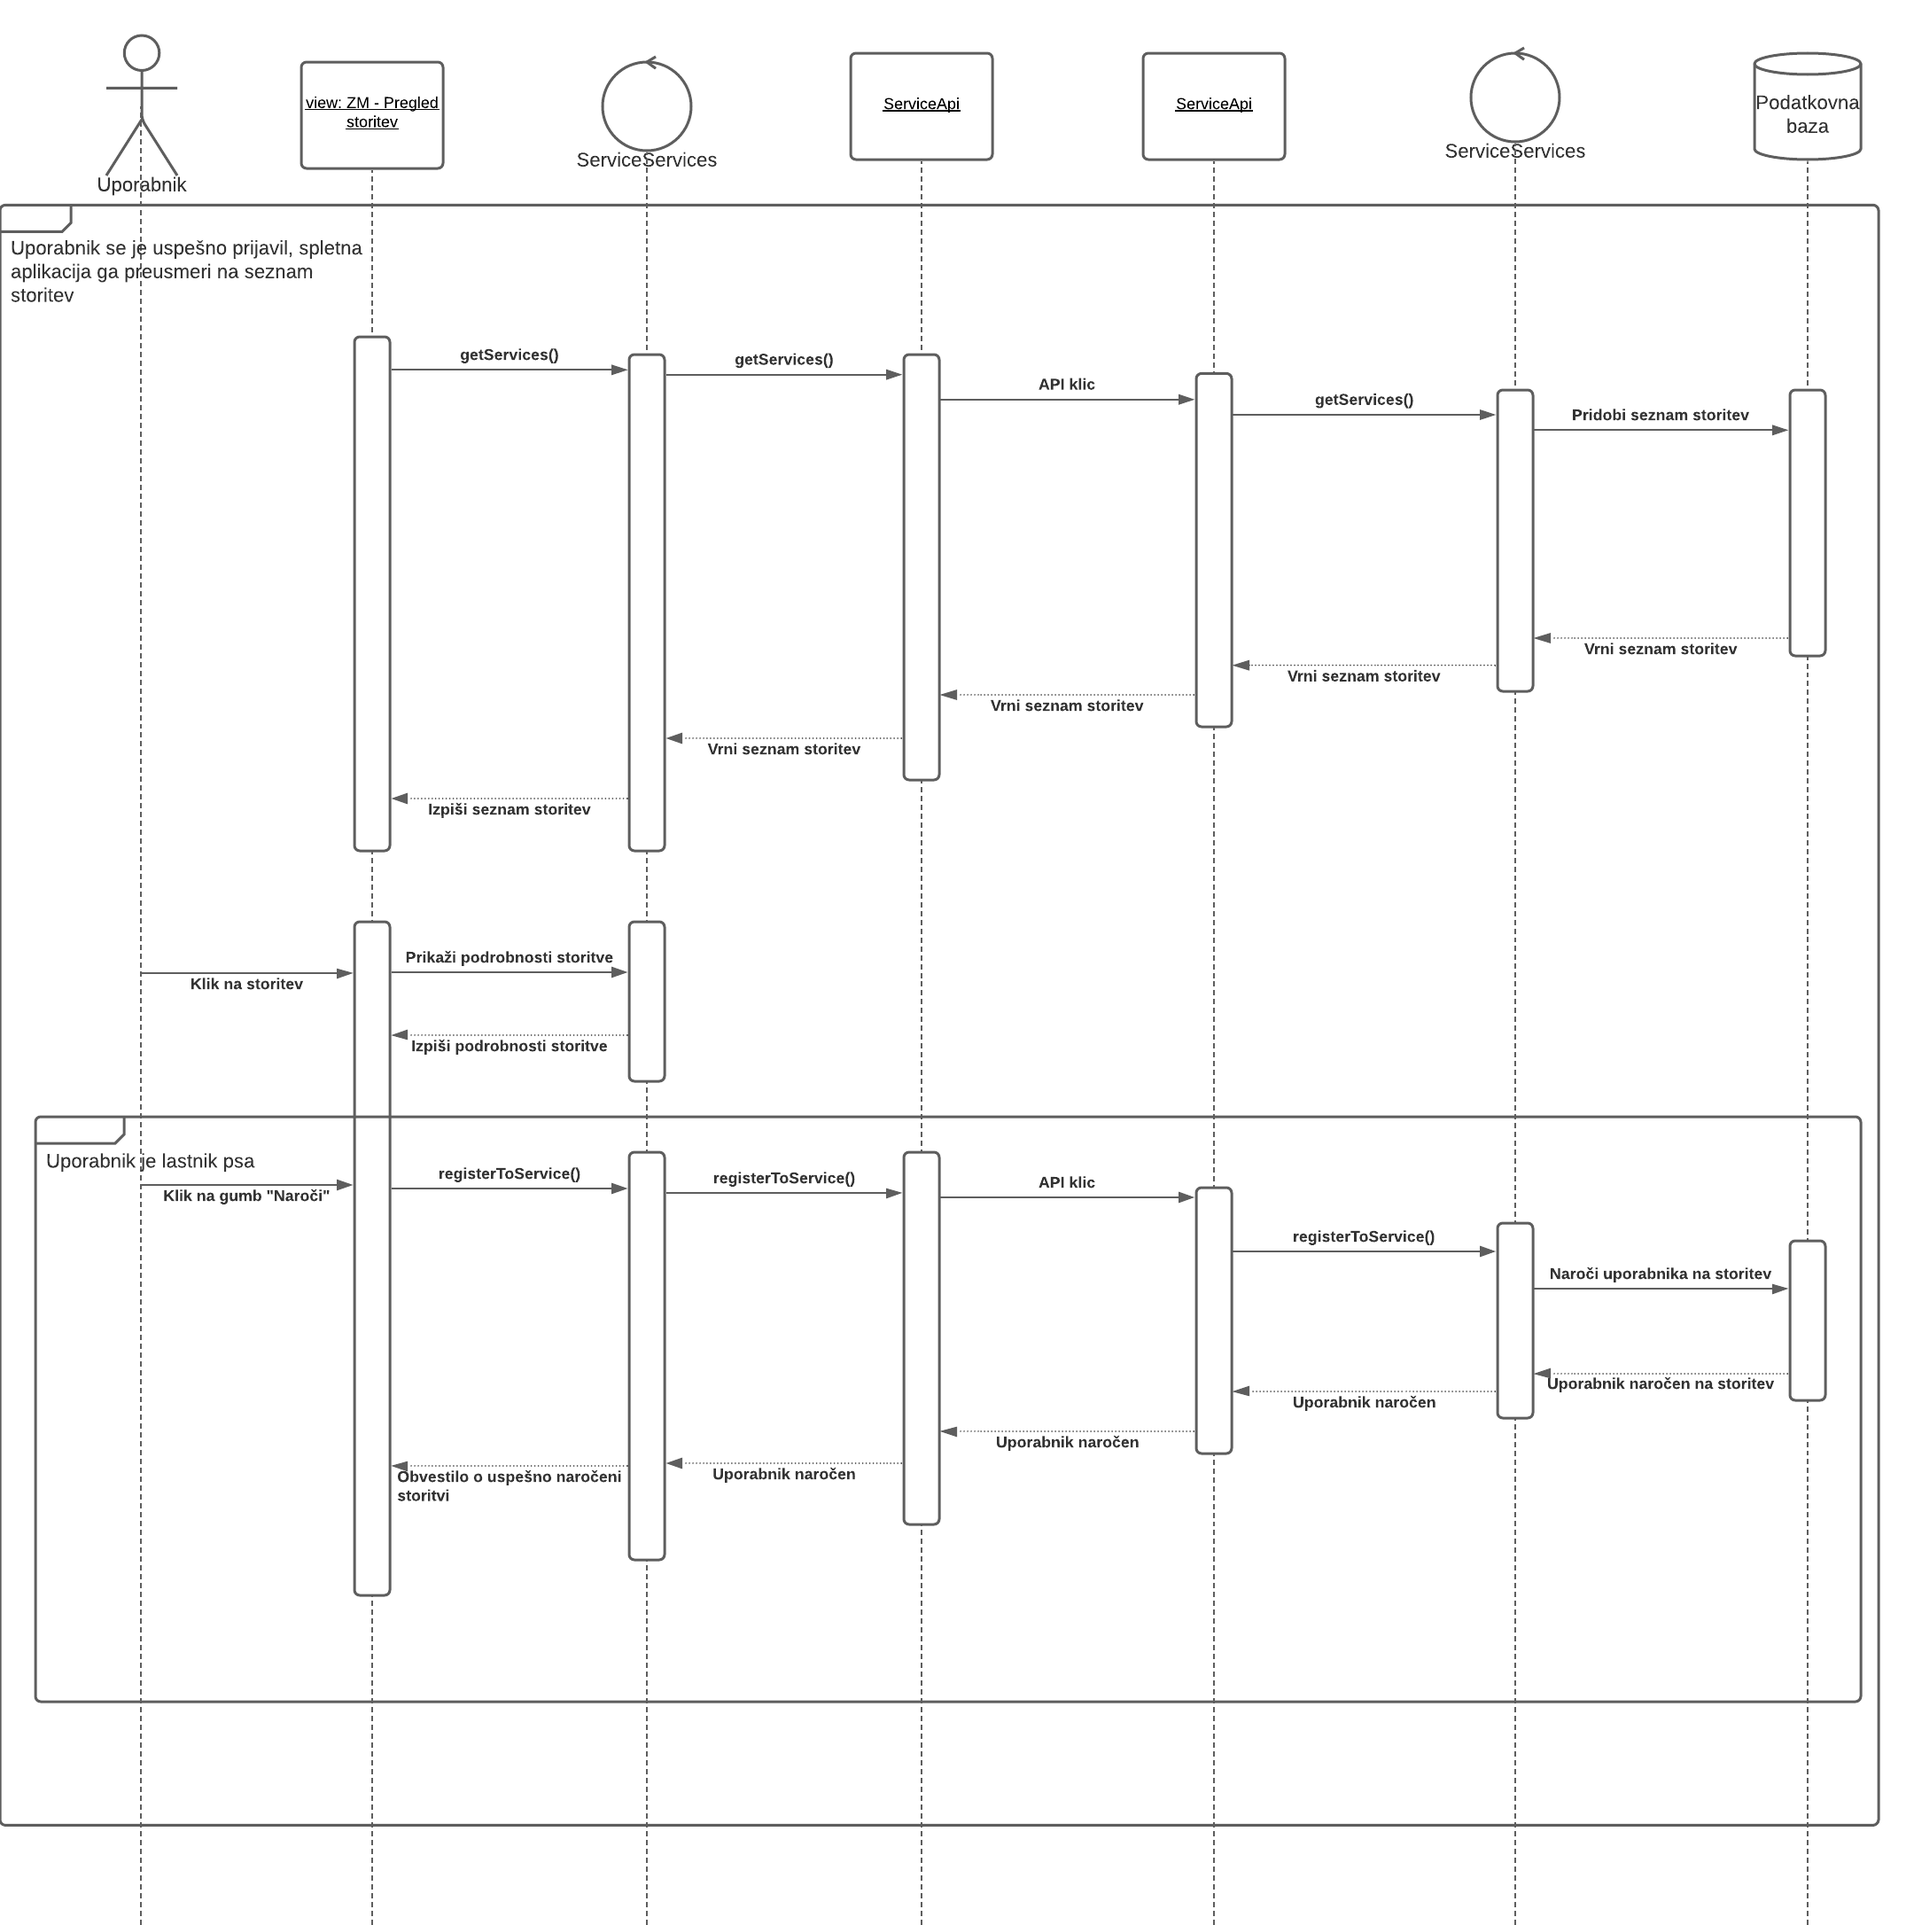
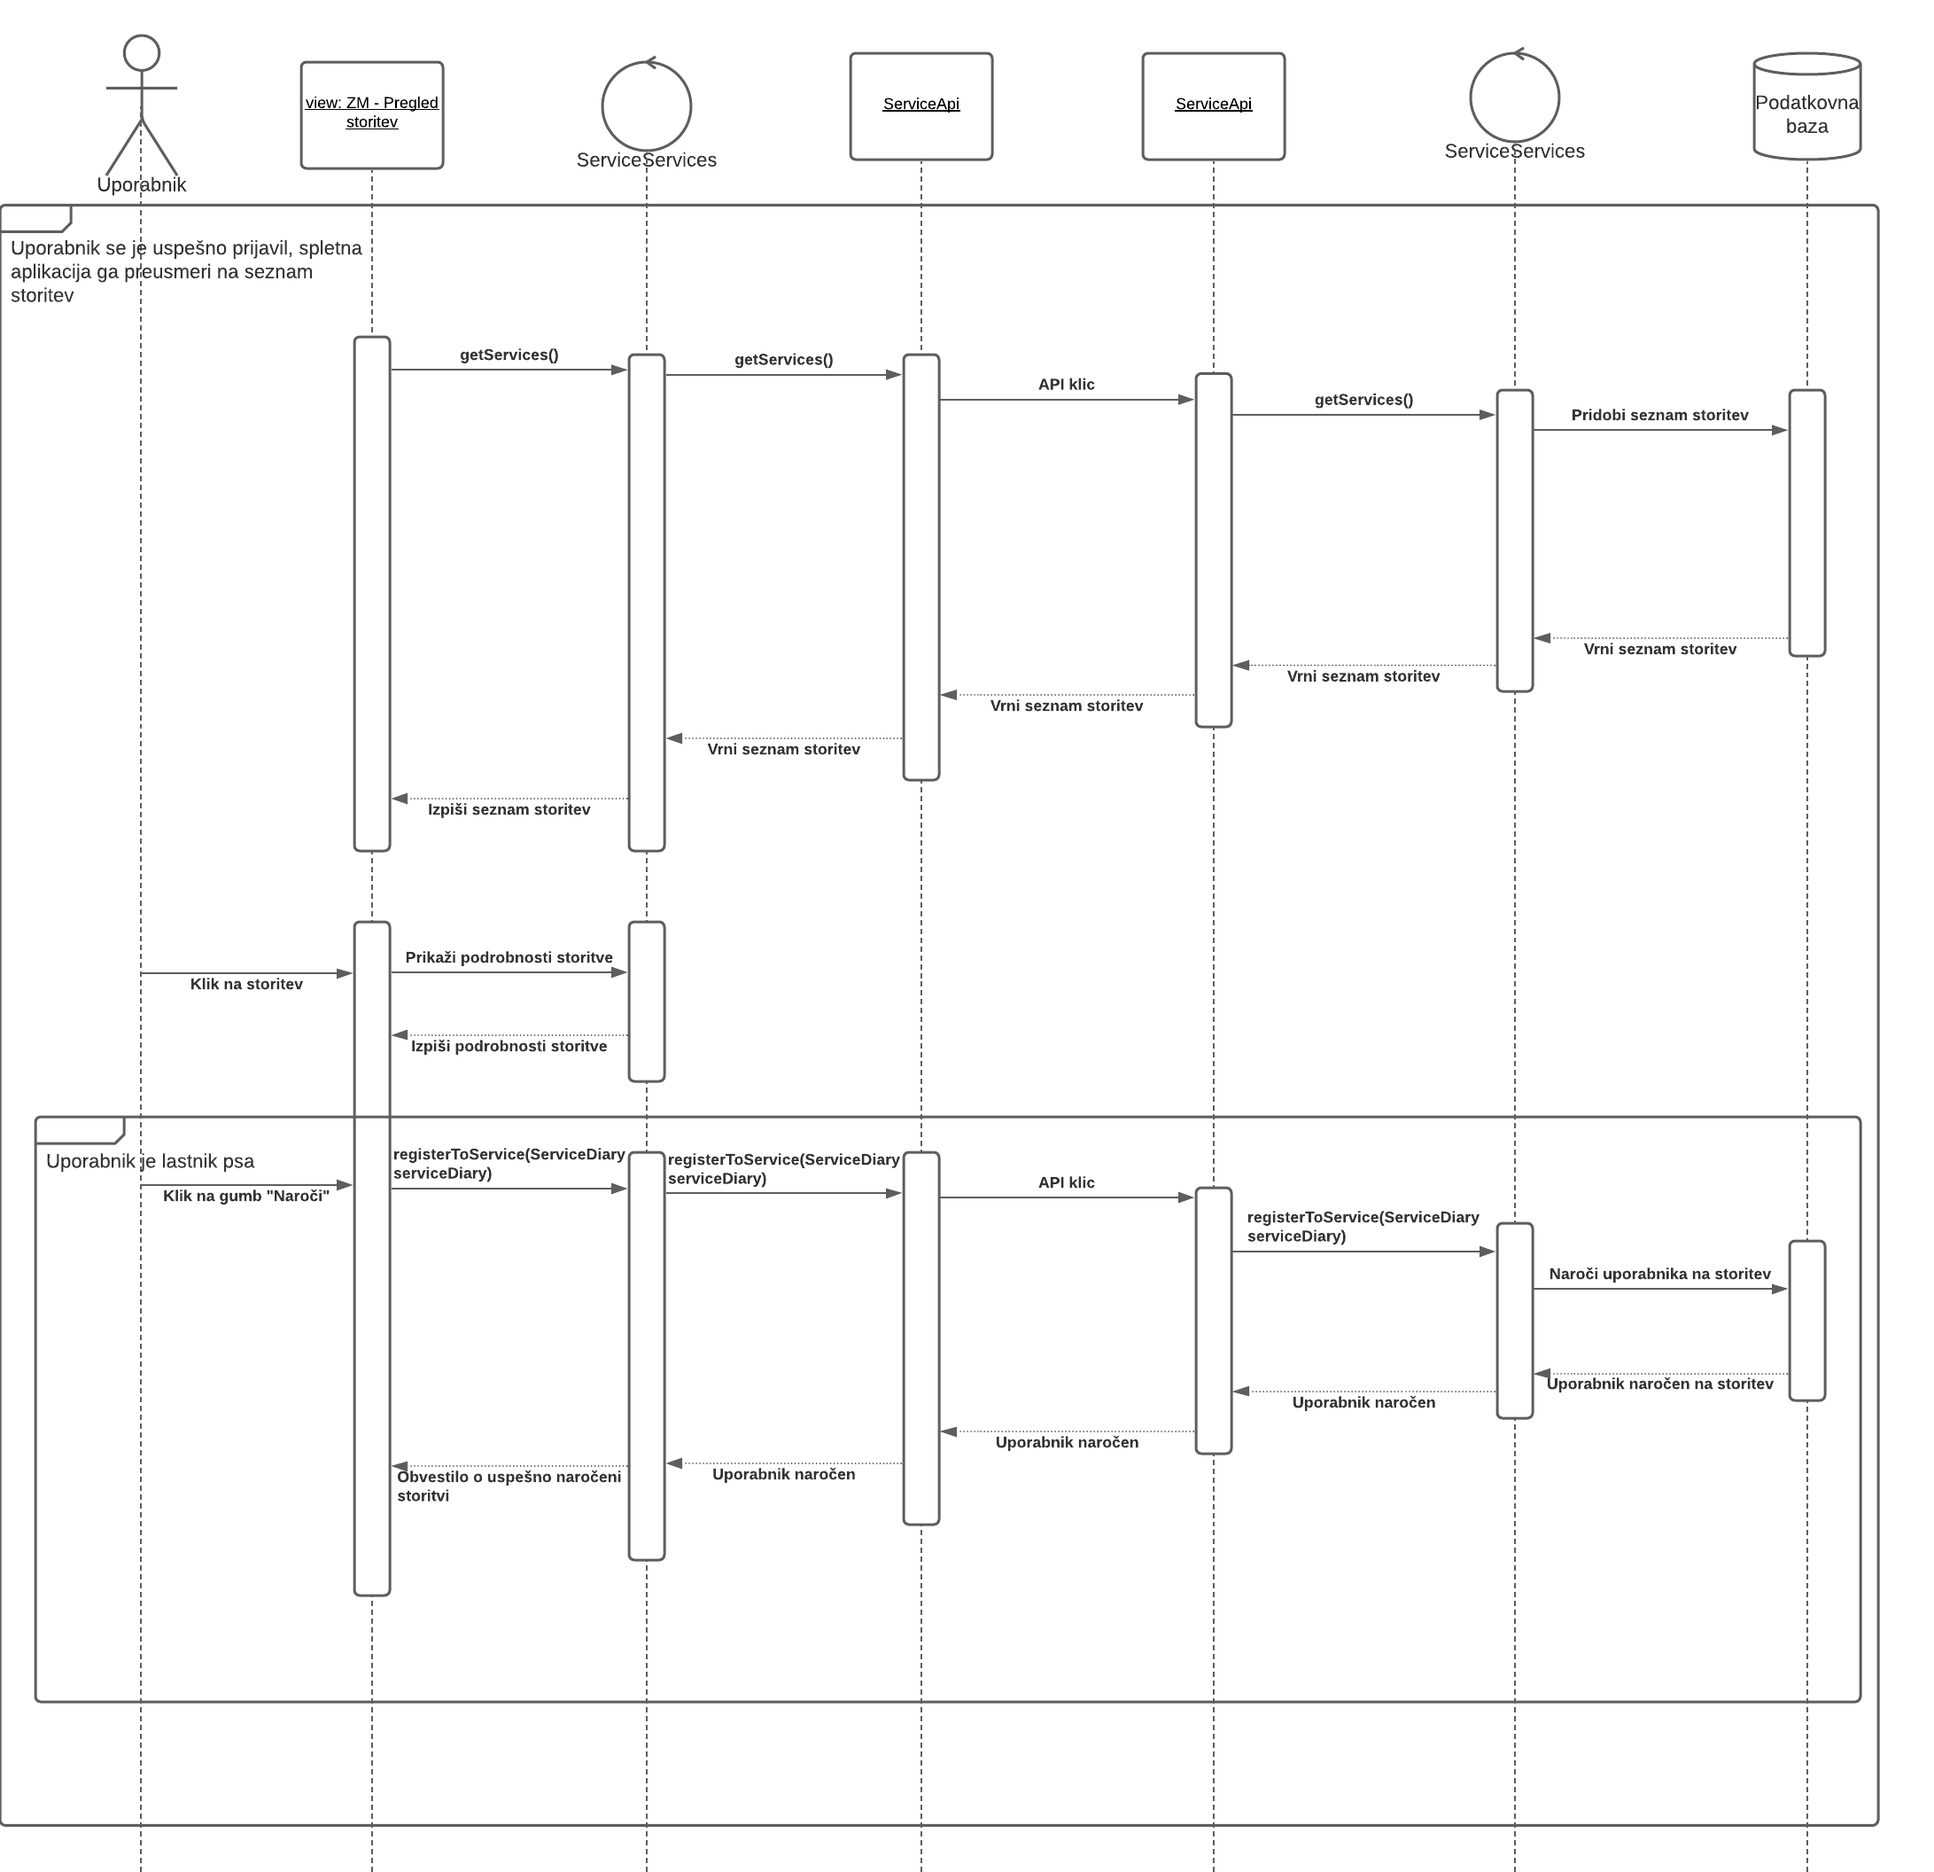
Popravljeni API klic na diagramu

diff --git a/docs/nacrt/README.md b/docs/nacrt/README.md
@@ -422,7 +422,7 @@ napako sporočil, ta pa bo uporabnika obvestila o neuspešni prijavi zaradi neob
 
 ### 3.3 Pregled vseh ponujenih storitev in naročilo izbrane storitve v okviru aplikacije
 Ob uspešni prijavi bo aplikacija uporabnika preusmerila na seznam vseh ponujenih storitev.
-API klic na naslednjih dveh diagramih predstavlja klic metode `Service[] getServices()`.
+API klic na naslednjih dveh diagramih predstavlja klic metode `Service[] getServices()` za pridobitev seznama storitev ter API klic `ServiceDiary postServiceDiary(ServiceDiary ServiceDiary)` 
 
 
 #### Osnovni tok
